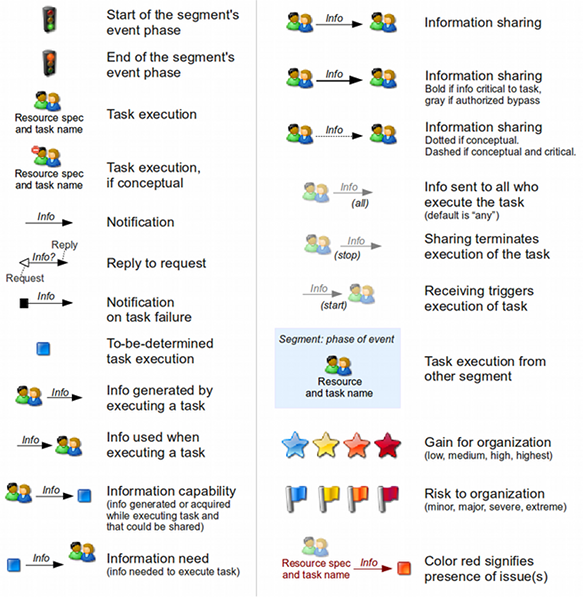
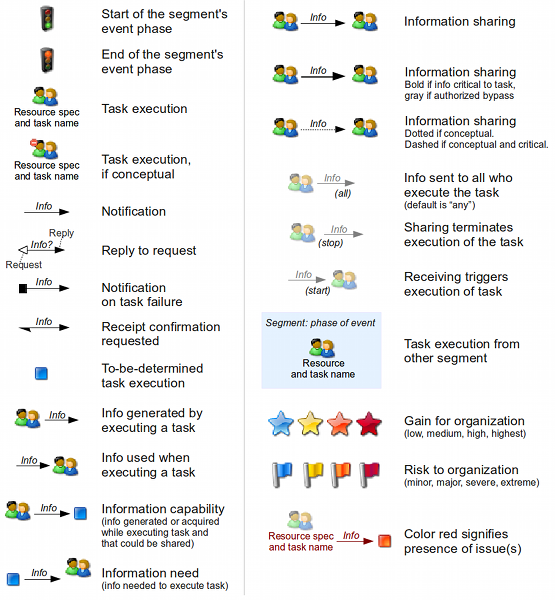
Receipt confirmation requested flows now shown by a half-arrow tail. Legend updated.
git-svn-id: https://wush.net/svn/mindalliance@3105 baad322d-9929-0410-88f0-f92e8ff3e1bd

diff --git a/channels/trunk/src/main/java/com/mindalliance/channels/graph/diagrams/FlowMapMetaProvider.java b/channels/trunk/src/main/java/com/mindalliance/channels/graph/diagrams/FlowMapMetaProvider.java
@@ -264,11 +264,11 @@ public class FlowMapMetaProvider extends AbstractFlowMetaProvider<Node, Flow> {
         private String getFontColor( Node vertex ) {
             return isInvisible( vertex )
                     ? vertex.getSegment().equals( getSegment() )
-                        ? INVISIBLE_COLOR
-                        : SUBGRAPH_COLOR
+                    ? INVISIBLE_COLOR
+                    : SUBGRAPH_COLOR
                     : isOverridden( vertex )
-                        ? OVERRIDDEN_COLOR
-                        : FONTCOLOR;
+                    ? OVERRIDDEN_COLOR
+                    : FONTCOLOR;
         }
 
         public List<DOTAttribute> getEdgeAttributes( Flow edge, boolean highlighted ) {
@@ -294,29 +294,22 @@ public class FlowMapMetaProvider extends AbstractFlowMetaProvider<Node, Flow> {
                             isOverridden( edge ) ? OVERRIDDEN_COLOR : "darkslategray" ) ) );
             list.add( new DOTAttribute( "len", "1.5" ) );
             list.add( new DOTAttribute( "weight", "2.0" ) );
-            if ( edge.isIfTaskFails() ) {
-                list.add( new DOTAttribute( "arrowtail", "box" ) );
-                list.add( new DOTAttribute( "dir", "both" ) );
-            }
-            if ( edge.isAskedFor() ) {
-                list.add( new DOTAttribute( "arrowtail", "onormal" ) );
-                list.add( new DOTAttribute( "dir", "both" ) );
-            }
+            addTailArrowHead( edge, list );
             list.add( new DOTAttribute( "style",
                     conceptual
-                        ? edge.isCritical()
+                            ? edge.isCritical()
                             ? "dashed"
                             : "dotted"
-                        : edge.isCritical()
+                            : edge.isCritical()
                             ? "bold"
                             : "normal"
             ) );
             if ( edge.isCritical() ) {
-                    list.add( new DOTAttribute(
-                            "fontcolor",
-                            colorIfVisible(
-                                    edge,
-                                    isOverridden( edge ) ? OVERRIDDEN_COLOR : "black" ) ) );
+                list.add( new DOTAttribute(
+                        "fontcolor",
+                        colorIfVisible(
+                                edge,
+                                isOverridden( edge ) ? OVERRIDDEN_COLOR : "black" ) ) );
             }
             // head and tail labels
             String headLabel = null;
@@ -372,6 +365,31 @@ public class FlowMapMetaProvider extends AbstractFlowMetaProvider<Node, Flow> {
 
     }
 
+    public void addTailArrowHead( Flow edge, List<DOTAttribute> list ) {
+        if ( edge.isIfTaskFails() ) {
+            list.add( new DOTAttribute(
+                    "arrowtail",
+                    edge.isReceiptConfirmationRequested()
+                            ? "boxlvee"
+                            : "box" ) );
+            list.add( new DOTAttribute( "dir", "both" ) );
+        }
+        if ( edge.isAskedFor() ) {
+            list.add( new DOTAttribute(
+                    "arrowtail",
+                    edge.isReceiptConfirmationRequested()
+                            ? "onormallvee"
+                            : "onormal" ) );
+            list.add( new DOTAttribute( "dir", "both" ) );
+        }
+        if ( !edge.isIfTaskFails() && !edge.isAskedFor() ) {
+            if ( edge.isReceiptConfirmationRequested() ) {
+                list.add( new DOTAttribute( "arrowtail", "lvee" ) );
+                list.add( new DOTAttribute( "dir", "both" ) );
+            }
+        }
+    }
+
     @SuppressWarnings( "unchecked" )
     private boolean isOverridden( Flow flow ) {
         if ( graphProperties != null && graphProperties.get( "overriddenFlows" ) != null ) {
@@ -386,7 +404,7 @@ public class FlowMapMetaProvider extends AbstractFlowMetaProvider<Node, Flow> {
     private boolean isOverridden( Node node ) {
         if ( node.isPart() && graphProperties != null && graphProperties.get( "overriddenParts" ) != null ) {
             List<Part> impliedParts = (List<Part>) graphProperties.get( "overriddenParts" );
-            return impliedParts.contains( (Part)node );
+            return impliedParts.contains( (Part) node );
         } else {
             return false;
         }

diff --git a/channels/trunk/src/main/java/com/mindalliance/channels/graph/diagrams/FlowMapDOTExporter.java b/channels/trunk/src/main/java/com/mindalliance/channels/graph/diagrams/FlowMapDOTExporter.java
@@ -404,17 +404,20 @@ public class FlowMapDOTExporter extends AbstractDOTExporter<Node, Flow> {
     }
 
     private List<DOTAttribute> getBypassEdgeAttributes( Flow flow ) {
+        FlowMapMetaProvider flowMapMetaProvider = (FlowMapMetaProvider)getMetaProvider();
         List<DOTAttribute> list = DOTAttribute.emptyList();
         list.add( new DOTAttribute( "color",  "gray" ) );
+        list.add( new DOTAttribute( "arrowsize", "0.75" ) );
         list.add( new DOTAttribute( "arrowhead", "normal" ) );
         list.add( new DOTAttribute( "fontname", AbstractMetaProvider.EDGE_FONT ) );
         list.add( new DOTAttribute( "fontsize", AbstractMetaProvider.EDGE_FONT_SIZE ) );
         list.add( new DOTAttribute( "fontcolor", "dimgray" ) );
         list.add( new DOTAttribute( "len", "1.5" ) );
         list.add( new DOTAttribute( "weight", "2.0" ) );
-        String label = ((FlowMapMetaProvider)getMetaProvider()).getEdgeLabelProvider().getEdgeName( flow );
+        String label = flowMapMetaProvider.getEdgeLabelProvider().getEdgeName( flow );
         list.add( new DOTAttribute( "label", label ) );
         list.add( new DOTAttribute( "tooltip", "Intermediate is bypassed if unreachable" ) );
+        flowMapMetaProvider.addTailArrowHead( flow, list );
         return list;
     }
 
